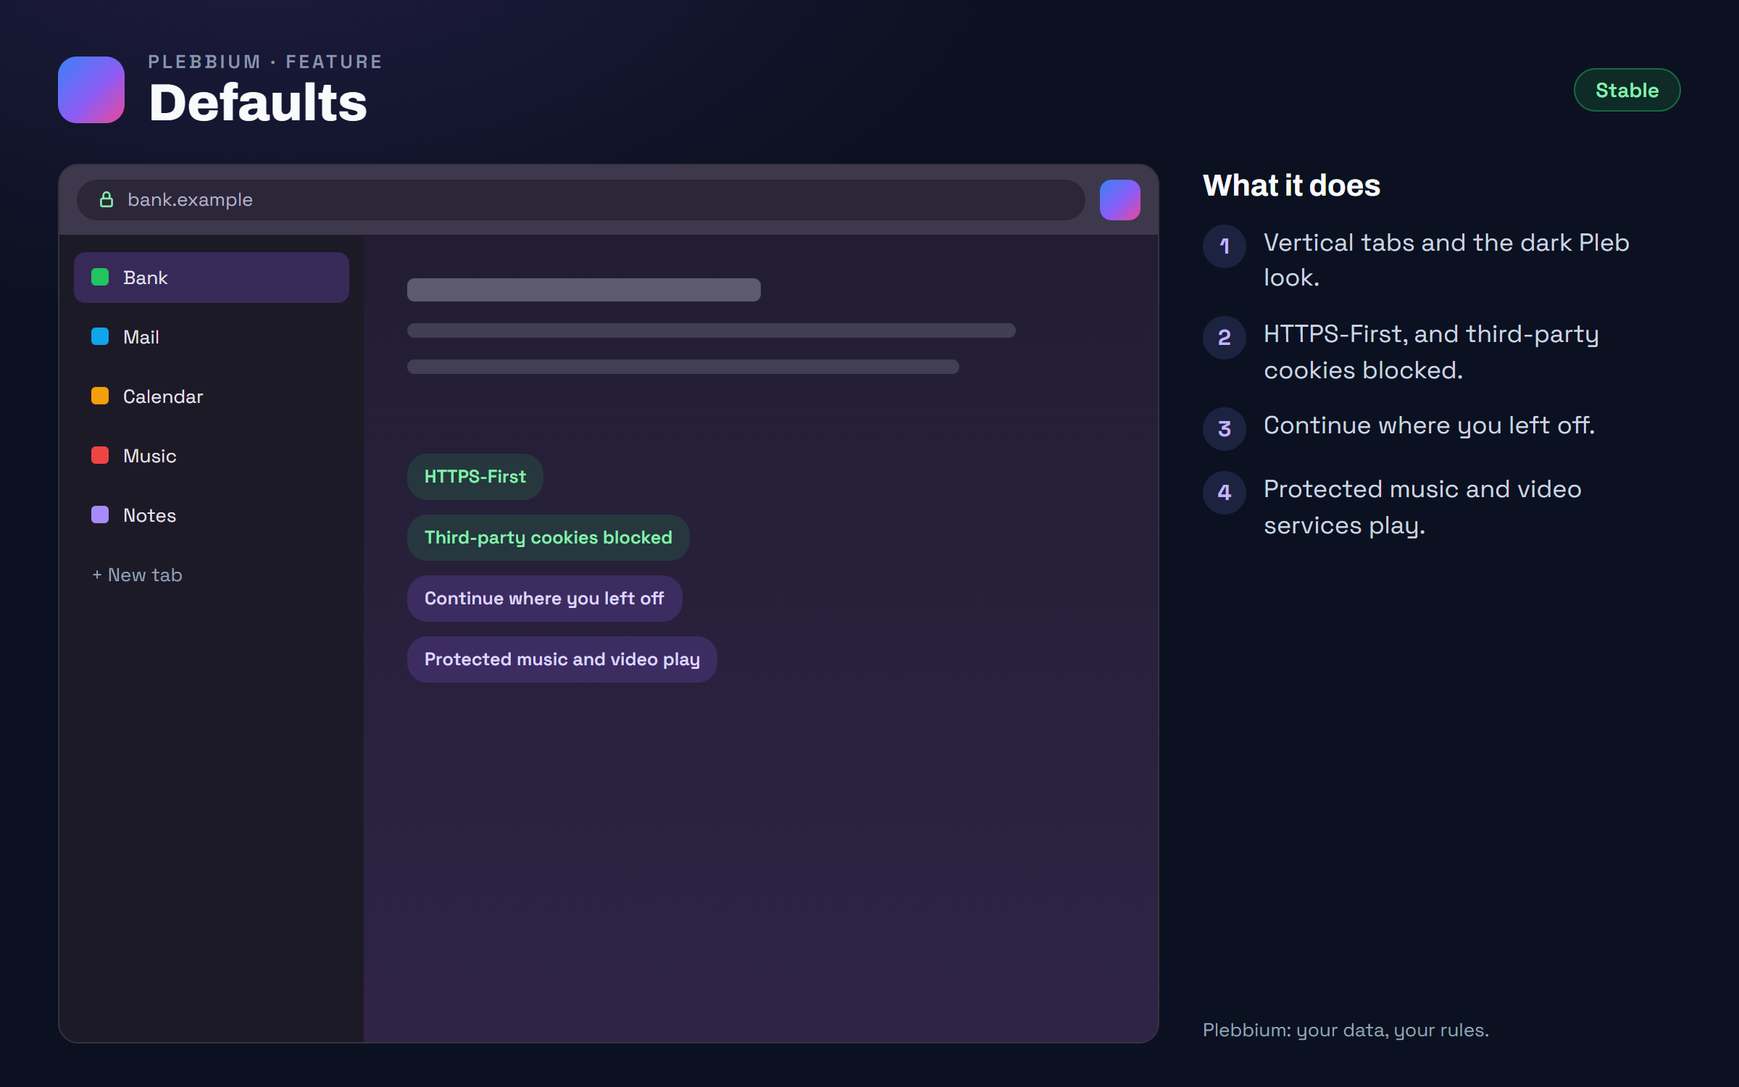
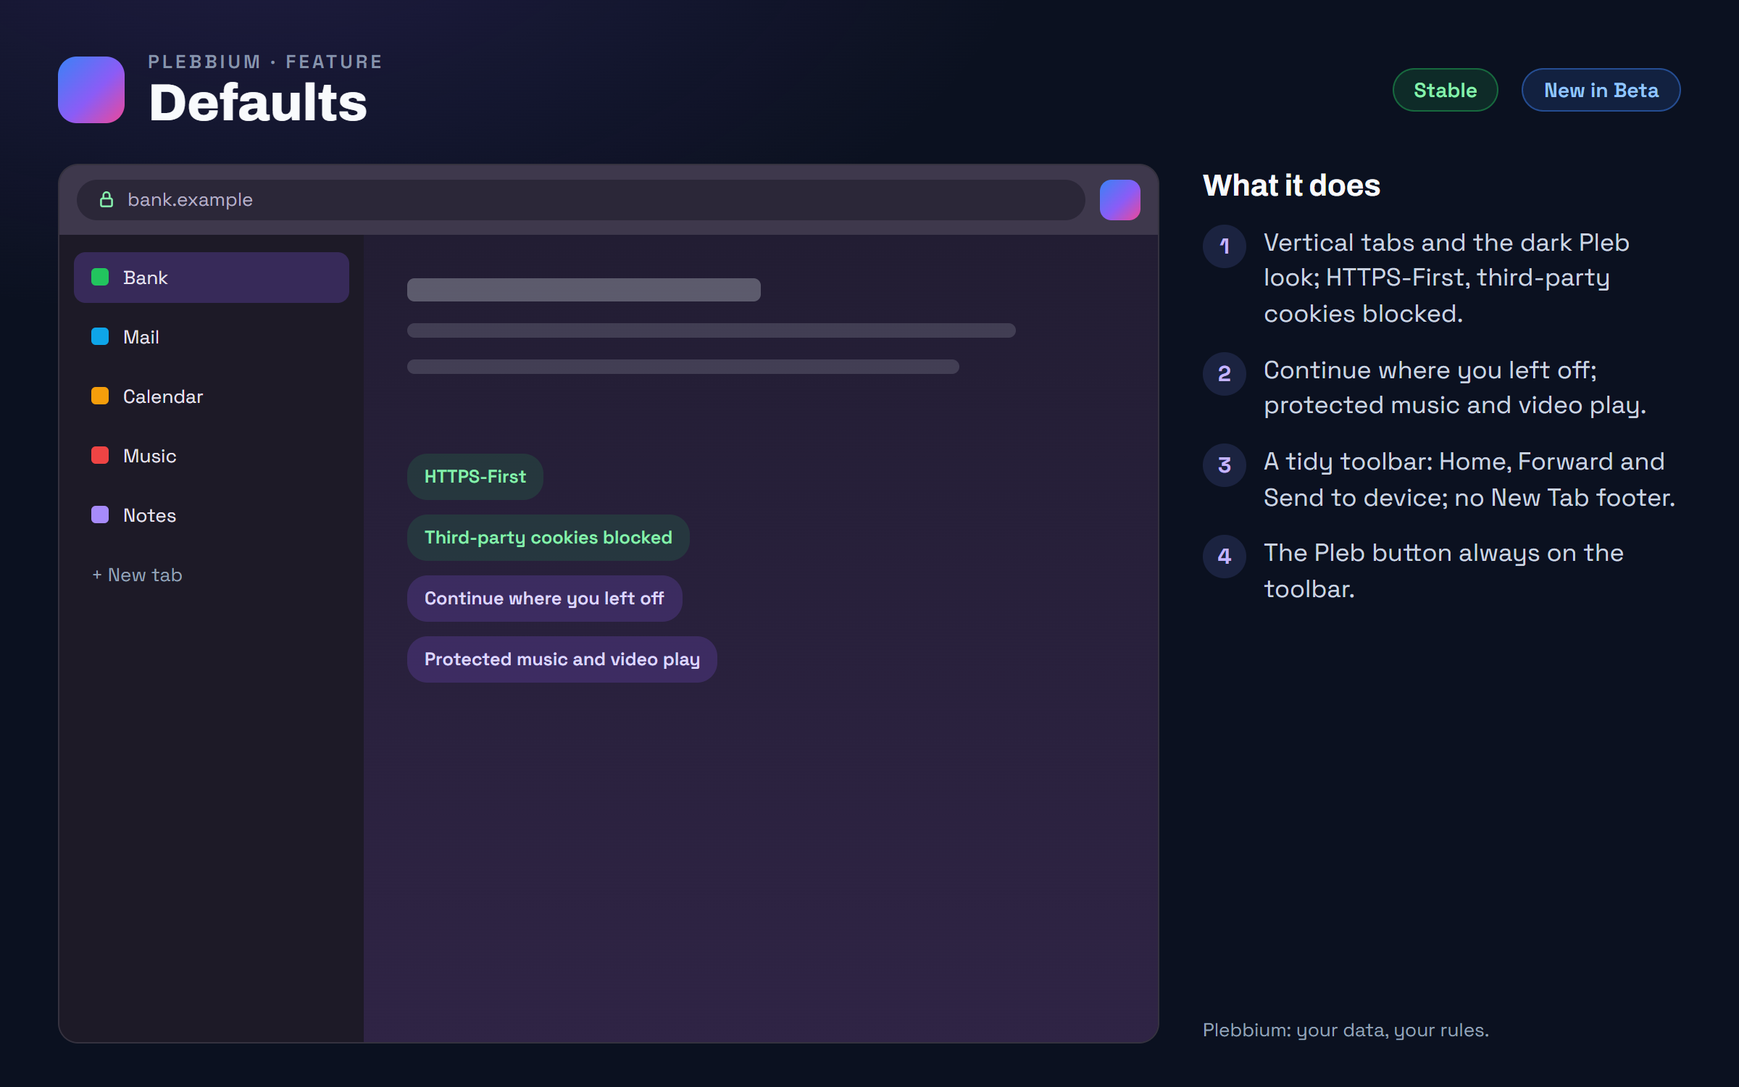
features page: 11 file(s) changed, 0 removed (4 board(s) redrawn)

Changed region(s): [[0.6875, 0.2453, 0.9688, 0.552], [0.7812, 0.0613, 0.9688, 0.1227]]

diff --git a/features/send-to-device/index.html b/features/send-to-device/index.html
@@ -19,19 +19,20 @@
 </header>
 <main id="main" class="wiki">
 <p class="crumbs"><a href="../">All features</a> › <a href="../#shipped">Shipped</a> › Send to device</p>
-<div class="title"><h1>Send to device</h1><span class="chip st">Stable</span><span class="since">since 3613</span></div>
+<div class="title"><h1>Send to device</h1><span class="chip st">Stable</span><span class="chip be">New in Beta</span><span class="since">since 3613</span></div>
 <p class="lead">Send a tab, a link or selected text to your phone or your other PCs: into the workspace open there, or a shared workspace that PC joined. A phone pairs with a QR code and gets a Plebbium page on its home screen, no app, and sends back.</p>
 <div class="cols">
 <div class="main">
 <figure class="board"><img src="../boards/send-to-device.png" width="1200" height="750" alt="A tab sent from a Plebbium window to a phone, which shows a notification with Open, and a PC notice offering Open and Open in a shared workspace.">
 <figcaption class="sr">What it does: Tabs, links and text to your phone or other PCs. Into the workspace open there, or a shared one. Phones: a QR code, a page on the home screen, notifications. Nothing opens by itself: a notice with Open.</figcaption></figure>
-<section class="sec" aria-labelledby="h-use"><h2 id="h-use">How to use it</h2><ol class="steps"><li><span>Pair a phone or PC: Plebbium settings › Your devices › Add a device, then scan the QR code. A PC already in your group says yes.</span></li><li><span>Send: right-click a page, link, tab or selected text › Send to device, or the button in the address bar.</span></li><li><span>Receive on a PC: a notice with Open, and Sent to you in the Pleb menu.</span></li><li><span>Send back from a phone: its Plebbium page, or Android&#39;s Share sheet.</span></li></ol></section>
-<section class="sec" aria-labelledby="h-when"><h2 id="h-when">When it arrived</h2><ul class="tl"><li><p class="v"><b>156.0.8078.3613</b><span>Beta 25 Oct 2026 · Stable 26 Oct 2026</span></p><p>Send to device, to phones and PCs.</p></li></ul></section>
+<section class="sec" aria-labelledby="h-use"><h2 id="h-use">How to use it</h2><ol class="steps"><li><span>Pair a phone or PC: Plebbium settings › Your devices › Add a device, then scan the QR code. A PC already in your group says yes.</span></li><li><span>Send: right-click a page, link, tab or selected text › Send to device, or the Send to device button on the toolbar (in the address bar when it is unpinned).</span></li><li><span>Receive on a PC: a notice with Open, and Sent to you in the Pleb menu.</span></li><li><span>Send back from a phone: its Plebbium page, or Android&#39;s Share sheet.</span></li></ol></section>
+<section class="sec" aria-labelledby="h-when"><h2 id="h-when">When it arrived</h2><ul class="tl"><li><p class="v"><b>156.0.8078.3613</b><span>Beta 25 Oct 2026 · Stable 26 Oct 2026</span></p><p>Send to device, to phones and PCs.</p></li>
+<li><p class="v"><b>156.0.8078.3616</b><span>Beta 6 Nov 2026 · not on Stable yet</span></p><p>Send to device as a toolbar button, pinned to start with; with no device yet it offers Add a device.</p></li></ul></section>
 <section class="sec" aria-labelledby="h-why"><h2 id="h-why">Why it works this way</h2><div class="why"><div><h3>No Google sync needed</h3><p>Chromium&#39;s own sending runs on Google&#39;s sync, which a browser like Plebbium can&#39;t offer everyone. Plebbium&#39;s works for everyone, through Plebbium&#39;s own relay.</p></div><div><h3>Encrypted end to end</h3><p>Everything sent is locked with your devices&#39; shared key; the relay only holds locked data, deletes it once collected, and keeps nothing more than 7 days.</p></div><div><h3>No app</h3><p>A phone uses a page added to its home screen, so Chrome on Android or an iPhone&#39;s browser is enough.</p></div></div></section>
 
 <nav class="pn" aria-label="More features"><a href="../defaults/">‹ Defaults</a><a href="../whats-in-plebbium/">What&#39;s in Plebbium ›</a></nav>
 </div>
-<aside class="glance" aria-labelledby="h-glance"><h2 id="h-glance">At a glance</h2><dl><div><dt>Status</dt><dd><span class="chip st">Stable</span></dd></div><div><dt>Arrived</dt><dd>156.0.8078.3613 · 26 Oct 2026</dd></div><div><dt>Where</dt><dd>Right-click › Send to device · the address bar&#39;s button · Plebbium settings › Your devices</dd></div><div><dt>Works with</dt><dd><a href="../workspaces/">Workspaces</a> · <a href="../shared-workspaces/">Shared workspaces</a></dd></div></dl></aside>
+<aside class="glance" aria-labelledby="h-glance"><h2 id="h-glance">At a glance</h2><dl><div><dt>Status</dt><dd><span class="chip st">Stable</span><span class="chip be">New in Beta</span></dd></div><div><dt>Arrived</dt><dd>156.0.8078.3613 · 26 Oct 2026</dd></div><div><dt>Where</dt><dd>Right-click › Send to device · the toolbar&#39;s button · Plebbium settings › Your devices</dd></div><div><dt>Works with</dt><dd><a href="../workspaces/">Workspaces</a> · <a href="../shared-workspaces/">Shared workspaces</a></dd></div></dl></aside>
 </div>
 </main>
 <footer class="foot">

diff --git a/features/index.html b/features/index.html
@@ -21,7 +21,7 @@
 <section class="hero">
 <h1>Everything in Plebbium</h1>
 <p class="lead">A Chromium browser for Windows with Pleb's features built in. Each one is shown the way it looks; open it for how to use it, when it arrived and why it works the way it does.</p>
-<p class="vers"><span class="ver st">Stable 156.0.8078.3615</span><span class="ver be">Beta 156.0.8078.3615</span><span class="since">Updated 4 Nov 2026</span></p>
+<p class="vers"><span class="ver st">Stable 156.0.8078.3615</span><span class="ver be">Beta 156.0.8078.3616</span><span class="since">Updated 6 Nov 2026</span></p>
 <p class="find" hidden><label for="find">Find a feature</label><input id="find" type="search" placeholder="Find a feature" autocomplete="off"></p>
 </section>
 <section class="row" id="shipped" aria-labelledby="h-shipped">
@@ -63,7 +63,7 @@
 <li class="card" data-words="new tab a clock, search with predictions, your top sites and a picture of your own.">
 <a href="new-tab/"><img src="boards/new-tab-card.png" width="600" height="375" alt="" loading="lazy" decoding="async">
 <span class="cb"><span class="h">New tab</span><span class="p">A clock, search with predictions, your top sites and a picture of your own.</span>
-<span class="meta"><span class="chip st">Stable</span><span class="since">since 3604</span></span></span></a></li>
+<span class="meta"><span class="chip st">Stable</span><span class="chip be">New in Beta</span><span class="since">since 3604</span></span></span></a></li>
 <li class="card" data-words="ask chatgpt / claude type gpt or clau and a question, or right-click a selection to ask about it.">
 <a href="ask-ai/"><img src="boards/ask-ai-card.png" width="600" height="375" alt="" loading="lazy" decoding="async">
 <span class="cb"><span class="h">Ask ChatGPT / Claude</span><span class="p">Type gpt or clau and a question, or right-click a selection to ask about it.</span>
@@ -107,7 +107,7 @@
 <li class="card" data-words="updates plebbium checks briefly as it starts, then asks: update now installs, restart now finishes.">
 <a href="updates/"><img src="boards/updates-card.png" width="600" height="375" alt="" loading="lazy" decoding="async">
 <span class="cb"><span class="h">Updates</span><span class="p">Plebbium checks briefly as it starts, then asks: Update now installs, Restart now finishes.</span>
-<span class="meta"><span class="chip st">Stable</span><span class="since">since 3604</span></span></span></a></li>
+<span class="meta"><span class="chip st">Stable</span><span class="chip be">New in Beta</span><span class="since">since 3604</span></span></span></a></li>
 <li class="card" data-words="suggestion box ask for a feature or a fix: it becomes a public issue you can follow.">
 <a href="suggestion-box/"><img src="boards/suggestion-box-card.png" width="600" height="375" alt="" loading="lazy" decoding="async">
 <span class="cb"><span class="h">Suggestion box</span><span class="p">Ask for a feature or a fix: it becomes a public issue you can follow.</span>
@@ -115,11 +115,11 @@
 <li class="card" data-words="defaults vertical tabs, the pleb look, https-first and third-party cookies blocked, from the start.">
 <a href="defaults/"><img src="boards/defaults-card.png" width="600" height="375" alt="" loading="lazy" decoding="async">
 <span class="cb"><span class="h">Defaults</span><span class="p">Vertical tabs, the Pleb look, HTTPS-First and third-party cookies blocked, from the start.</span>
-<span class="meta"><span class="chip st">Stable</span><span class="since">since 3604</span></span></span></a></li>
+<span class="meta"><span class="chip st">Stable</span><span class="chip be">New in Beta</span><span class="since">since 3604</span></span></span></a></li>
 <li class="card" data-words="send to device a tab, link or text to your phone or other pcs. pair a phone with a qr code; no app needed.">
 <a href="send-to-device/"><img src="boards/send-to-device-card.png" width="600" height="375" alt="" loading="lazy" decoding="async">
 <span class="cb"><span class="h">Send to device</span><span class="p">A tab, link or text to your phone or other PCs. Pair a phone with a QR code; no app needed.</span>
-<span class="meta"><span class="chip st">Stable</span><span class="since">since 3613</span></span></span></a></li>
+<span class="meta"><span class="chip st">Stable</span><span class="chip be">New in Beta</span><span class="since">since 3613</span></span></span></a></li>
 <li class="card" data-words="what&#39;s in plebbium this page, one click away in the pleb menu.">
 <a href="whats-in-plebbium/"><img src="boards/whats-in-plebbium-card.png" width="600" height="375" alt="" loading="lazy" decoding="async">
 <span class="cb"><span class="h">What&#39;s in Plebbium</span><span class="p">This page, one click away in the Pleb menu.</span>

diff --git a/features/defaults/index.html b/features/defaults/index.html
@@ -19,20 +19,21 @@
 </header>
 <main id="main" class="wiki">
 <p class="crumbs"><a href="../">All features</a> › <a href="../#shipped">Shipped</a> › Defaults</p>
-<div class="title"><h1>Defaults</h1><span class="chip st">Stable</span><span class="since">since 3604</span></div>
+<div class="title"><h1>Defaults</h1><span class="chip st">Stable</span><span class="chip be">New in Beta</span><span class="since">since 3604</span></div>
 <p class="lead">Plebbium starts the way Pleb would set up a browser: vertical tabs, the dark Pleb-violet look, HTTPS-First, third-party cookies blocked, and continue where you left off. Protected music and video services play.</p>
 <div class="cols">
 <div class="main">
 <figure class="board"><img src="../boards/defaults.png" width="1200" height="750" alt="A Plebbium window with vertical tabs down its left side in the dark violet look and a lock in the address bar.">
-<figcaption class="sr">What it does: Vertical tabs and the dark Pleb look. HTTPS-First, and third-party cookies blocked. Continue where you left off. Protected music and video services play.</figcaption></figure>
-<section class="sec" aria-labelledby="h-use"><h2 id="h-use">How to use it</h2><ol class="steps"><li><span>Nothing to do. Change any of them in the browser&#39;s settings, as in any Chromium.</span></li></ol></section>
+<figcaption class="sr">What it does: Vertical tabs and the dark Pleb look; HTTPS-First, third-party cookies blocked. Continue where you left off; protected music and video play. A tidy toolbar: Home, Forward and Send to device; no New Tab footer. The Pleb button always on the toolbar.</figcaption></figure>
+<section class="sec" aria-labelledby="h-use"><h2 id="h-use">How to use it</h2><ol class="steps"><li><span>Nothing to do. Change any of them in the browser&#39;s settings, as in any Chromium.</span></li><li><span>The toolbar: Customize Chrome › Toolbar turns buttons on and off; Reset to default brings back Plebbium&#39;s.</span></li></ol></section>
 <section class="sec" aria-labelledby="h-when"><h2 id="h-when">When it arrived</h2><ul class="tl"><li><p class="v"><b>156.0.8078.3604</b><span>18 Oct 2026 · Beta and Stable</span></p><p>Plebbium&#39;s defaults.</p></li>
-<li><p class="v"><b>156.0.8078.3606</b><span>19 Oct 2026 · Beta and Stable</span></p><p>Protected media plays (Widevine).</p></li></ul></section>
+<li><p class="v"><b>156.0.8078.3606</b><span>19 Oct 2026 · Beta and Stable</span></p><p>Protected media plays (Widevine).</p></li>
+<li><p class="v"><b>156.0.8078.3616</b><span>Beta 6 Nov 2026 · not on Stable yet</span></p><p>A starting toolbar: Home, Forward and Send to device, nothing else pinned, no New Tab footer, set once in every profile. The Pleb button is always on the toolbar.</p></li></ul></section>
 <section class="sec" aria-labelledby="h-why"><h2 id="h-why">Why it works this way</h2><div class="why"><div><h3>Settings, not code changes</h3><p>Defaults are starting settings, not changes to Chromium&#39;s code: every code change is a conflict waiting for the next Chromium update, and updates are security.</p></div><div><h3>Protected media</h3><p>Music and video services play only through Widevine. Plebbium turns it on, and Chromium fetches Google&#39;s module the first time a site needs it, as any Chromium with Widevine does.</p></div></div></section>
 
 <nav class="pn" aria-label="More features"><a href="../suggestion-box/">‹ Suggestion box</a><a href="../send-to-device/">Send to device ›</a></nav>
 </div>
-<aside class="glance" aria-labelledby="h-glance"><h2 id="h-glance">At a glance</h2><dl><div><dt>Status</dt><dd><span class="chip st">Stable</span></dd></div><div><dt>Arrived</dt><dd>156.0.8078.3604 · 18 Oct 2026</dd></div><div><dt>Where</dt><dd>From the first start</dd></div><div><dt>Works with</dt><dd><a href="../blocker/">Blocker</a> · <a href="../themes/">Themes</a></dd></div></dl></aside>
+<aside class="glance" aria-labelledby="h-glance"><h2 id="h-glance">At a glance</h2><dl><div><dt>Status</dt><dd><span class="chip st">Stable</span><span class="chip be">New in Beta</span></dd></div><div><dt>Arrived</dt><dd>156.0.8078.3604 · 18 Oct 2026</dd></div><div><dt>Where</dt><dd>From the first start · Customize Chrome › Toolbar</dd></div><div><dt>Works with</dt><dd><a href="../blocker/">Blocker</a> · <a href="../themes/">Themes</a></dd></div></dl></aside>
 </div>
 </main>
 <footer class="foot">

diff --git a/features/updates/index.html b/features/updates/index.html
@@ -19,7 +19,7 @@
 </header>
 <main id="main" class="wiki">
 <p class="crumbs"><a href="../">All features</a> › <a href="../#shipped">Shipped</a> › Updates</p>
-<div class="title"><h1>Updates</h1><span class="chip st">Stable</span><span class="since">since 3604</span></div>
+<div class="title"><h1>Updates</h1><span class="chip st">Stable</span><span class="chip be">New in Beta</span><span class="since">since 3604</span></div>
 <p class="lead">Plebbium checks for updates as it starts and once a day, reading one small file and downloading nothing. When something is new, the Pleb menu opens and asks; Update now downloads and installs it, then Restart now finishes it when you are ready, your tabs restored.</p>
 <div class="cols">
 <div class="main">
@@ -28,12 +28,13 @@
 <section class="sec" aria-labelledby="h-use"><h2 id="h-use">How to use it</h2><ol class="steps"><li><span>When the Pleb menu opens with an update, press Update now, or Later to be asked at the next start.</span></li><li><span>Check yourself: Plebbium settings › Updates › Check now.</span></li><li><span>Stable or Beta: Plebbium settings › Updates.</span></li></ol></section>
 <section class="sec" aria-labelledby="h-when"><h2 id="h-when">When it arrived</h2><ul class="tl"><li><p class="v"><b>156.0.8078.3604</b><span>18 Oct 2026 · Beta and Stable</span></p><p>Signed updates, on Stable and Beta.</p></li>
 <li><p class="v"><b>156.0.8078.3612</b><span>22 Oct 2026 · Beta and Stable</span></p><p>Updates ask first: the Pleb menu opens with Update now.</p></li>
-<li><p class="v"><b>Features 0.9.2</b><span>Beta 30 Oct 2026 · Stable 4 Nov 2026</span></p><p>An installed update waits for Restart now instead of restarting by itself, and the Pleb menu reminds you when Plebbium opens again.</p></li></ul></section>
+<li><p class="v"><b>Features 0.9.2</b><span>Beta 30 Oct 2026 · Stable 4 Nov 2026</span></p><p>An installed update waits for Restart now instead of restarting by itself, and the Pleb menu reminds you when Plebbium opens again.</p></li>
+<li><p class="v"><b>Features 0.10.0</b><span>Beta 6 Nov 2026 · not on Stable yet</span></p><p>While an update downloads, Plebbium settings stay still, with a progress bar; every section of the settings folds.</p></li></ul></section>
 <section class="sec" aria-labelledby="h-why"><h2 id="h-why">Why it works this way</h2><div class="why"><div><h3>Signed, so only Plebbium&#39;s</h3><p>Every update is checked against a signature by a key only Pleb has; anything else, or anything older than what you run, is refused.</p></div><div><h3>Asks first</h3><p>A check costs about 2 KB and never downloads anything by itself; an update that&#39;s already installed is never fetched again.</p></div><div><h3>Two lanes</h3><p>The whole browser, with Chrome&#39;s security fixes, or just Pleb&#39;s features, which are small and quick.</p></div></div></section>
 
 <nav class="pn" aria-label="More features"><a href="../split-view/">‹ Split view</a><a href="../suggestion-box/">Suggestion box ›</a></nav>
 </div>
-<aside class="glance" aria-labelledby="h-glance"><h2 id="h-glance">At a glance</h2><dl><div><dt>Status</dt><dd><span class="chip st">Stable</span></dd></div><div><dt>Arrived</dt><dd>156.0.8078.3604 · 18 Oct 2026</dd></div><div><dt>Where</dt><dd>The Pleb button · Plebbium settings › Updates</dd></div><div><dt>Works with</dt><dd><a href="../start-window/">Start window</a> · <a href="../suggestion-box/">Suggestion box</a></dd></div></dl></aside>
+<aside class="glance" aria-labelledby="h-glance"><h2 id="h-glance">At a glance</h2><dl><div><dt>Status</dt><dd><span class="chip st">Stable</span><span class="chip be">New in Beta</span></dd></div><div><dt>Arrived</dt><dd>156.0.8078.3604 · 18 Oct 2026</dd></div><div><dt>Where</dt><dd>The Pleb button · Plebbium settings › Updates</dd></div><div><dt>Works with</dt><dd><a href="../start-window/">Start window</a> · <a href="../suggestion-box/">Suggestion box</a></dd></div></dl></aside>
 </div>
 </main>
 <footer class="foot">

diff --git a/features/new-tab/index.html b/features/new-tab/index.html
@@ -19,7 +19,7 @@
 </header>
 <main id="main" class="wiki">
 <p class="crumbs"><a href="../">All features</a> › <a href="../#shipped">Shipped</a> › New tab</p>
-<div class="title"><h1>New tab</h1><span class="chip st">Stable</span><span class="since">since 3604</span></div>
+<div class="title"><h1>New tab</h1><span class="chip st">Stable</span><span class="chip be">New in Beta</span><span class="since">since 3604</span></div>
 <p class="lead">A calm new tab: a clock, one search box with predictions as you type and a search button, !bangs, your top sites, pick up where you left off, and a background picture of your own, dimmed to taste.</p>
 <div class="cols">
 <div class="main">
@@ -28,12 +28,13 @@
 <section class="sec" aria-labelledby="h-use"><h2 id="h-use">How to use it</h2><ol class="steps"><li><span>Search: type, then pick a prediction or press Enter or the search button.</span></li><li><span>Search a site directly: start with a <kbd>!bang</kbd>.</span></li><li><span>A background picture: Customize, bottom right › choose one from your computer, then set how dim it is.</span></li><li><span>Predictions off: Plebbium settings › New tab.</span></li><li><span>A plain white clock: Plebbium settings › Appearance › White clock. Customize › Reset to default takes the picture away and goes back to Violet.</span></li></ol></section>
 <section class="sec" aria-labelledby="h-when"><h2 id="h-when">When it arrived</h2><ul class="tl"><li><p class="v"><b>156.0.8078.3604</b><span>18 Oct 2026 · Beta and Stable</span></p><p>The new tab.</p></li>
 <li><p class="v"><b>156.0.8078.3612</b><span>22 Oct 2026 · Beta and Stable</span></p><p>Search predictions, a search button and a background picture of your own.</p></li>
-<li><p class="v"><b>156.0.8078.3614</b><span>26 Oct 2026 · Beta and Stable</span></p><p>The clock keeps the theme&#39;s colours on your picture; White clock for plain white; Reset to default in Customize.</p></li></ul></section>
+<li><p class="v"><b>156.0.8078.3614</b><span>26 Oct 2026 · Beta and Stable</span></p><p>The clock keeps the theme&#39;s colours on your picture; White clock for plain white; Reset to default in Customize.</p></li>
+<li><p class="v"><b>Features 0.10.0</b><span>Beta 6 Nov 2026 · not on Stable yet</span></p><p>Fits shorter screens: no scrollbar while everything fits.</p></li></ul></section>
 <section class="sec" aria-labelledby="h-why"><h2 id="h-why">Why it works this way</h2><div class="why"><div><h3>Predictions send only what you type</h3><p>The one thing on the new tab that uses the network: only the box&#39;s text goes, without cookies, and never an address, a bang or a question for an AI.</p></div><div><h3>Your picture, kept on your PC</h3><p>Only your own picture, never one fetched from the web; it is resized and kept on that PC.</p></div></div></section>
 
 <nav class="pn" aria-label="More features"><a href="../peek/">‹ Peek</a><a href="../ask-ai/">Ask ChatGPT / Claude ›</a></nav>
 </div>
-<aside class="glance" aria-labelledby="h-glance"><h2 id="h-glance">At a glance</h2><dl><div><dt>Status</dt><dd><span class="chip st">Stable</span></dd></div><div><dt>Arrived</dt><dd>156.0.8078.3604 · 18 Oct 2026</dd></div><div><dt>Where</dt><dd>Every new tab · Customize, bottom right</dd></div><div><dt>Works with</dt><dd><a href="../ask-ai/">Ask ChatGPT / Claude</a> · <a href="../themes/">Themes</a></dd></div></dl></aside>
+<aside class="glance" aria-labelledby="h-glance"><h2 id="h-glance">At a glance</h2><dl><div><dt>Status</dt><dd><span class="chip st">Stable</span><span class="chip be">New in Beta</span></dd></div><div><dt>Arrived</dt><dd>156.0.8078.3604 · 18 Oct 2026</dd></div><div><dt>Where</dt><dd>Every new tab · Customize, bottom right</dd></div><div><dt>Works with</dt><dd><a href="../ask-ai/">Ask ChatGPT / Claude</a> · <a href="../themes/">Themes</a></dd></div></dl></aside>
 </div>
 </main>
 <footer class="foot">
